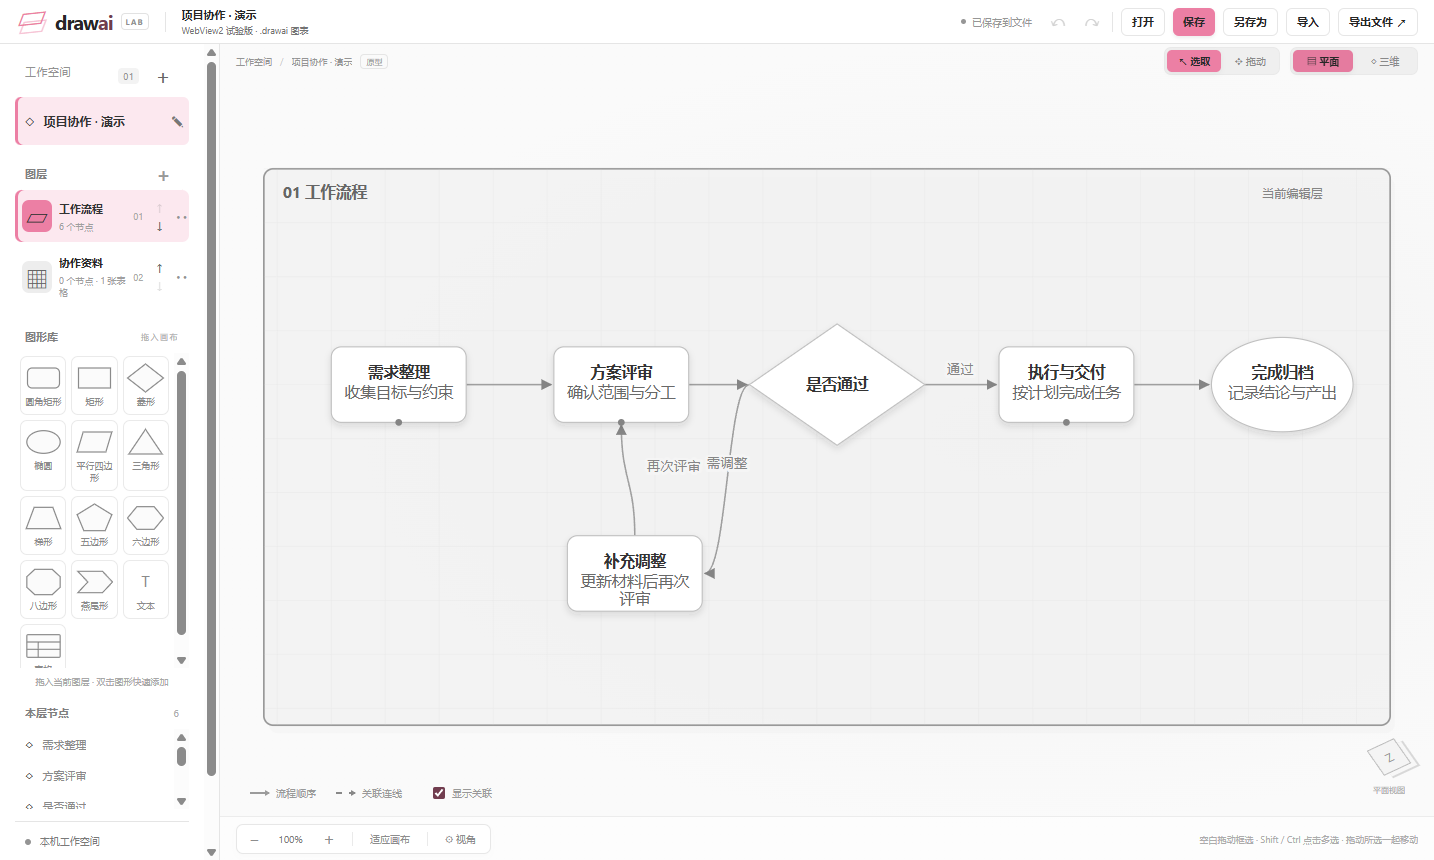
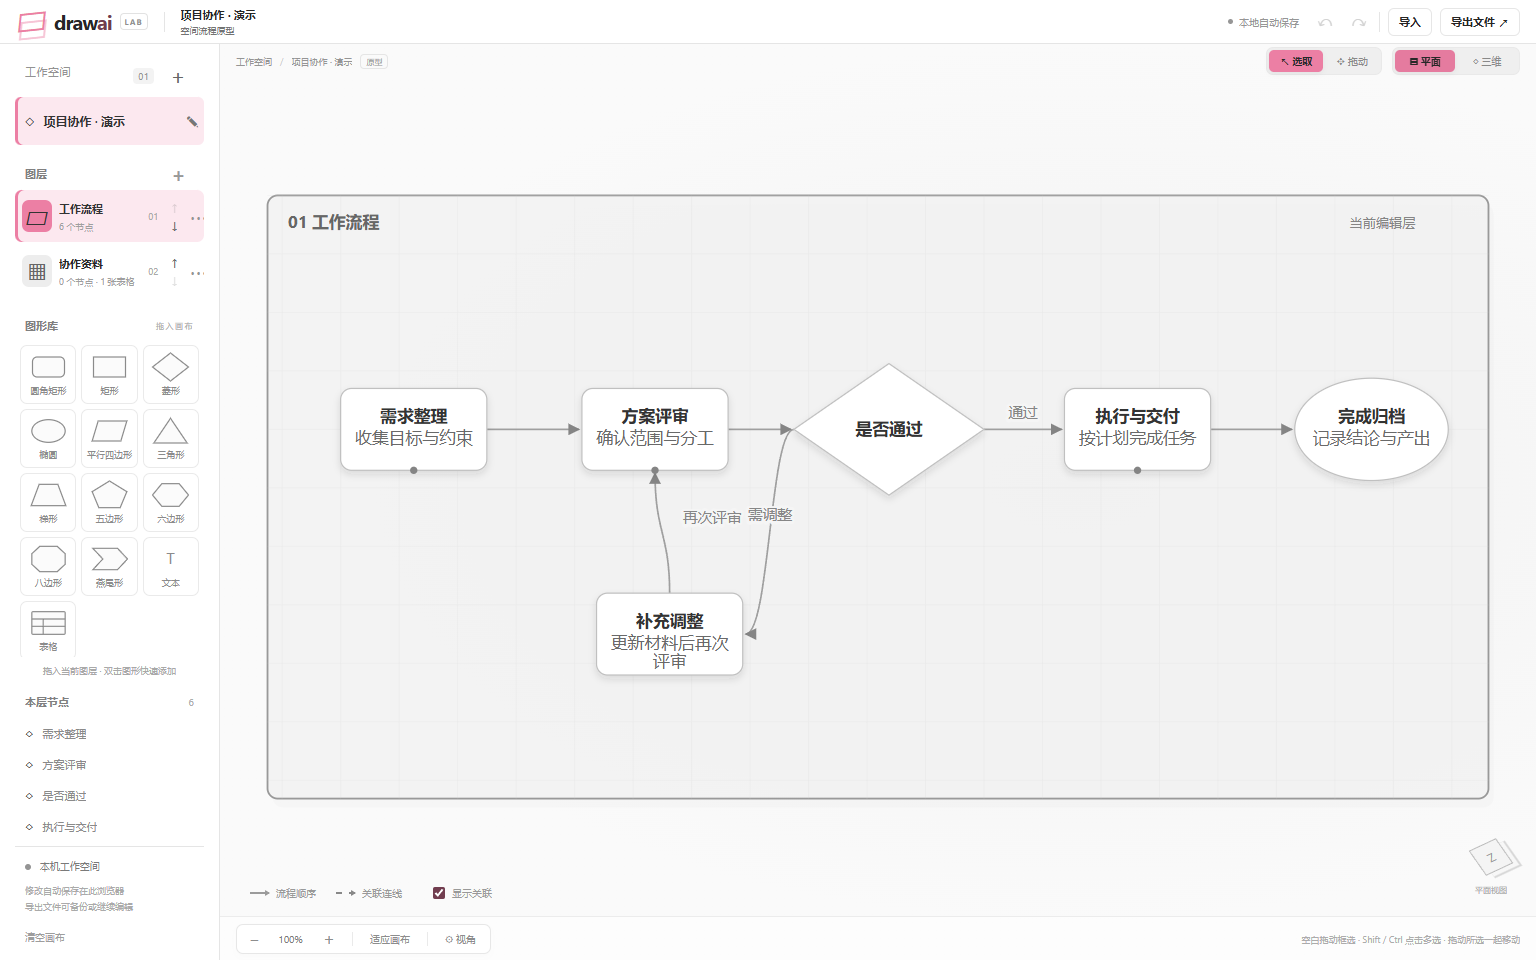
Refresh introduction screenshots for version 0.5.0

diff --git a/README.md b/README.md
@@ -8,11 +8,11 @@ Windows 免安装运行，图表保存在本机，无需登录。默认只有一
 
 ## 预览
 
-三维视图：使用近大远小的透视，同时查看多个图层和跨层关联。
+三维视图（网页版）：使用近大远小的透视，同时查看多个图层和跨层关联。
 
 ![三维流程与跨层表格关联](docs/images/spatial.png)
 
-平面视图：一次只编辑当前图层。
+平面视图（网页版）：一次只编辑当前图层。
 
 ![平面流程编辑](docs/images/flat.png)
 
@@ -20,7 +20,7 @@ Windows 免安装运行，图表保存在本机，无需登录。默认只有一
 
 ![空白画布与天空蓝主题](docs/images/theme-blue.png)
 
-> 前两张截图使用临时构造的演示内容，仅用于展示操作效果，不随免安装程序分发。
+> 截图已更新至 0.5.0。前两张为网页版截图，使用临时构造的演示内容，仅用于展示操作效果，不随免安装程序分发；主题截图来自 WebView2 桌面版。
 
 ## 在线试用
 
